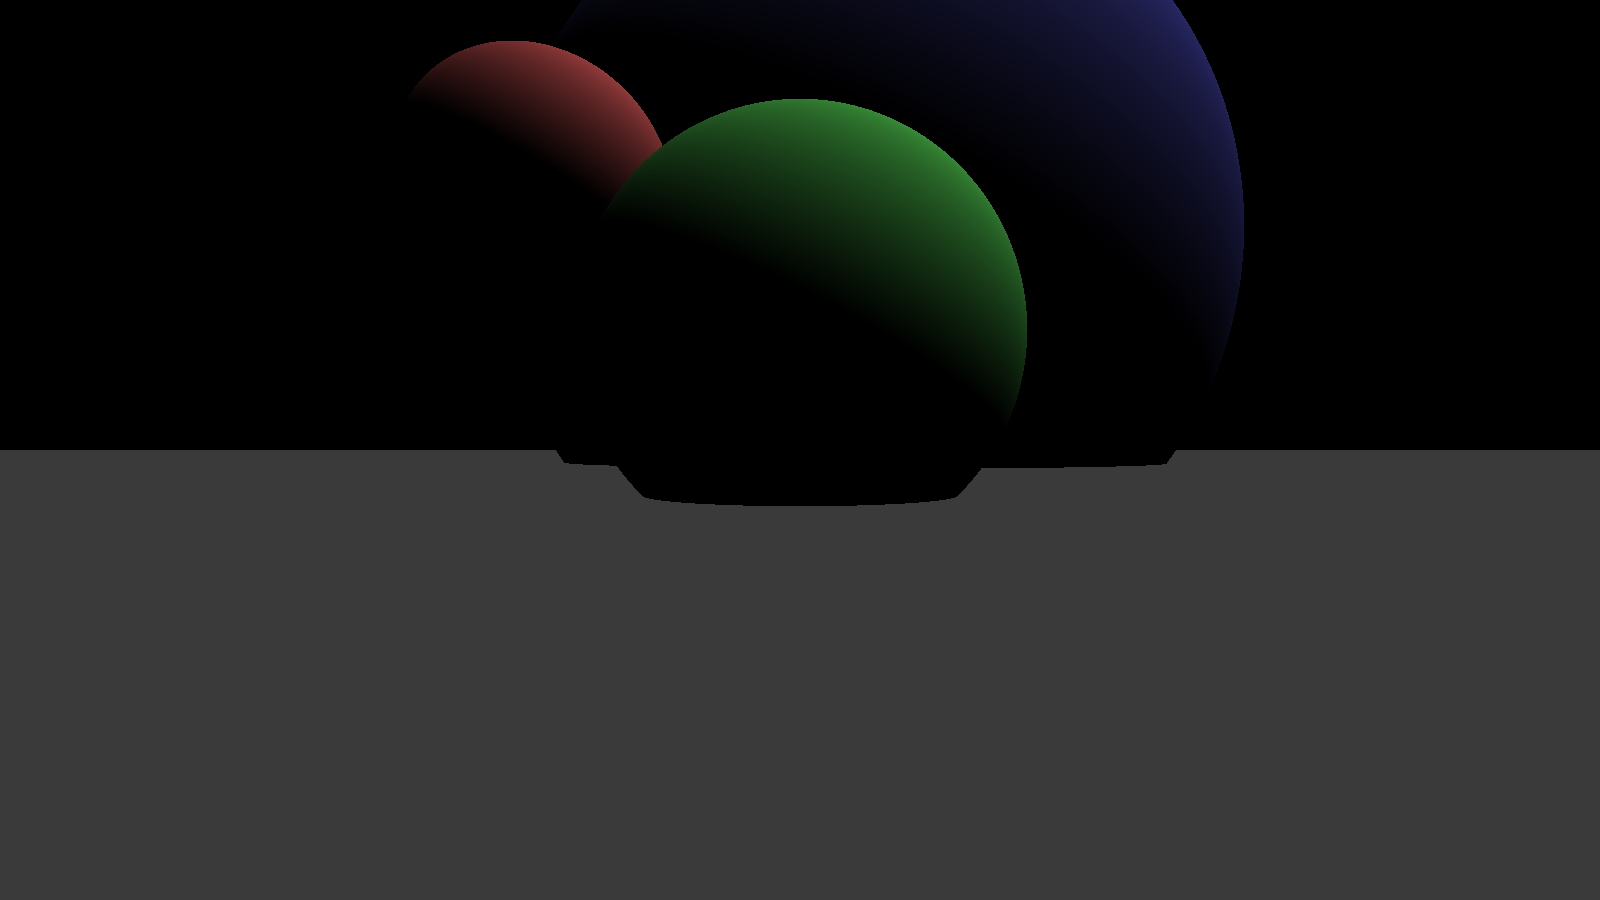
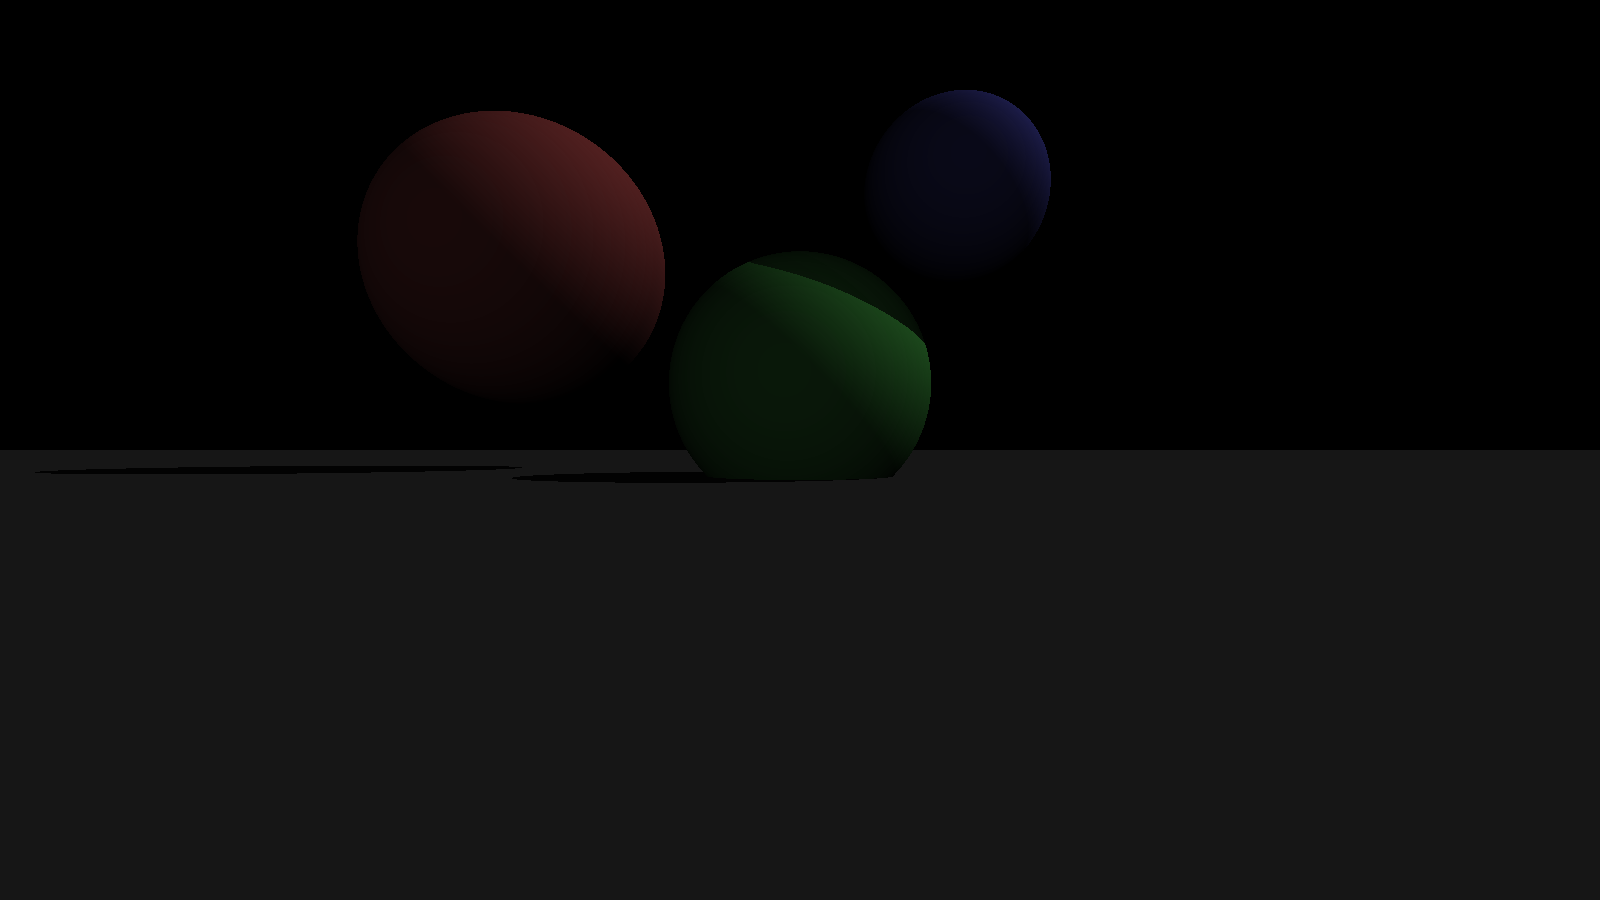
trace shadows

diff --git a/src/render.rs b/src/render.rs
@@ -27,6 +27,7 @@ impl Ray {
     }
 }
 
+//TODO implement overloaded mul, add image::Rgba
 fn get_reflect_color(ec: &Rgba<f64>, lc: &Rgba<f64>, power: f64, reflect: f64) -> Rgba<u8> {
     let r = (ec.data[0] * lc.data[0] * power * reflect * 255.0) as u8;
     let g = (ec.data[1] * lc.data[1] * power * reflect * 255.0) as u8;
@@ -34,7 +35,13 @@ fn get_reflect_color(ec: &Rgba<f64>, lc: &Rgba<f64>, power: f64, reflect: f64) -
     let a = (ec.data[3] * lc.data[3] * power * reflect * 255.0) as u8;
     Rgba { data: [r, g, b, a]}
 }
-
+fn accumulate_color(acc: &Rgba<u8>, lit: &Rgba<u8>) -> Rgba<u8> {
+    let r = (acc.data[0] + lit.data[0]).min(255);
+    let g = (acc.data[1] + lit.data[1]).min(255);
+    let b = (acc.data[2] + lit.data[2]).min(255);
+    let a = (acc.data[3] + lit.data[3]).min(255);
+    Rgba { data: [r, g, b, a]}
+}
 
 pub fn cast_ray(scene: &Scene, ray: &Ray, depth: u8) -> Rgba<u8> {
     if depth > MAX_DEPTH { return BLACK; }
@@ -43,10 +50,22 @@ pub fn cast_ray(scene: &Scene, ray: &Ray, depth: u8) -> Rgba<u8> {
         Some(i) => {
             let hit_point = ray.origin + (ray.direction * i.distance);
             let surface_normal = i.element.surface_normal(&hit_point);
-            let light_dir = -scene.lights[0].direction.normalize();
-            let light_power = (surface_normal.dot(light_dir)).max(0.0) * scene.lights[0].intensity;
-            let reflect_proportion = i.element.albedo() / PI;
-            get_reflect_color(&i.element.color(), &scene.lights[0].color, light_power, reflect_proportion)
+            let mut color_acc: Rgba<u8> = Rgba { data: [0, 0, 0, 0] };
+            for light in &scene.lights {
+                let light_direction = -light.direction.normalize();
+                let shadow_ray = Ray {
+                    origin: hit_point + (surface_normal * SHADOW_BIAS),
+                    direction: light_direction,
+                };
+                let ambient: f64 = 0.1;
+                let in_light = scene.trace(&shadow_ray).is_none();
+                let light_intensity = if in_light { light.intensity } else { ambient };
+                let light_power = (surface_normal.dot(light_direction)).max(0.0) * light_intensity;
+                let reflect_proportion = i.element.albedo() / PI;
+                let lit = get_reflect_color(&i.element.color(), &light.color, light_power, reflect_proportion);
+                color_acc = accumulate_color(&color_acc, &lit);
+            }
+            color_acc
         },
         None => BLACK
     }

diff --git a/src/lib.rs b/src/lib.rs
@@ -30,20 +30,20 @@ pub fn test_render_scene() {
         fov:    scene::FOV,
         elements: vec!
         [Element::Sphere(Sphere {
-            center: Point3::new(0.0, 0.5, -3.0),
+            center: Point3::new(0.0, 0.5, -5.0),
             radius: 1.0,
             color : Rgba { data: [0.4, 1.0, 0.4, 1.0] },
             albedo: 1.0,
         }),
         Element::Sphere(Sphere {
-            center: Point3::new(-2.0, 2.0, -5.0),
-            radius: 1.0,
+            center: Point3::new(-3.0, 2.0, -7.0),
+            radius: 1.5,
             color : Rgba { data: [1.0, 0.4, 0.4, 1.0] },
             albedo: 1.0,
         }),
         Element::Sphere(Sphere {
-            center: Point3::new(1.0, 3.0, -12.0),
-            radius: 6.0,
+            center: Point3::new(1.2, 2.0, -5.0),
+            radius: 0.7,
             color : Rgba { data: [0.4, 0.4, 1.0, 1.0] },
             albedo: 1.0,
         }),
@@ -55,9 +55,14 @@ pub fn test_render_scene() {
         })],
         lights: vec![
         Light {
-            direction: Vector3::new(-0.5, -1.0, 0.0),
+            direction: Vector3::new(-1.0, -1.0, 0.1),
             color: Rgba { data: [1.0, 1.0, 1.0, 1.0] },
             intensity: 1.0,
+        },
+        Light {
+            direction: Vector3::new(0.1, 0.0, -1.0),
+            color: Rgba { data: [1.0, 1.0, 1.0, 1.0] },
+            intensity: 0.3,
         }],
     };
 

diff --git a/src/scene.rs b/src/scene.rs
@@ -112,6 +112,7 @@ pub const RESO_W: u32 = 1600;
 pub const RESO_H: u32 = 900;
 pub const ASPECT: f64 = (RESO_W as f64) / (RESO_H as f64);
 pub const FOV:    f64 = 70.0;
+pub const SHADOW_BIAS: f64 = 1e-13;
 pub const _MAP_X:  u16 = 10;
 pub const _MAP_Y:  u16 = 10;
 pub const _BLOCK_DIM: u8 = 1;
